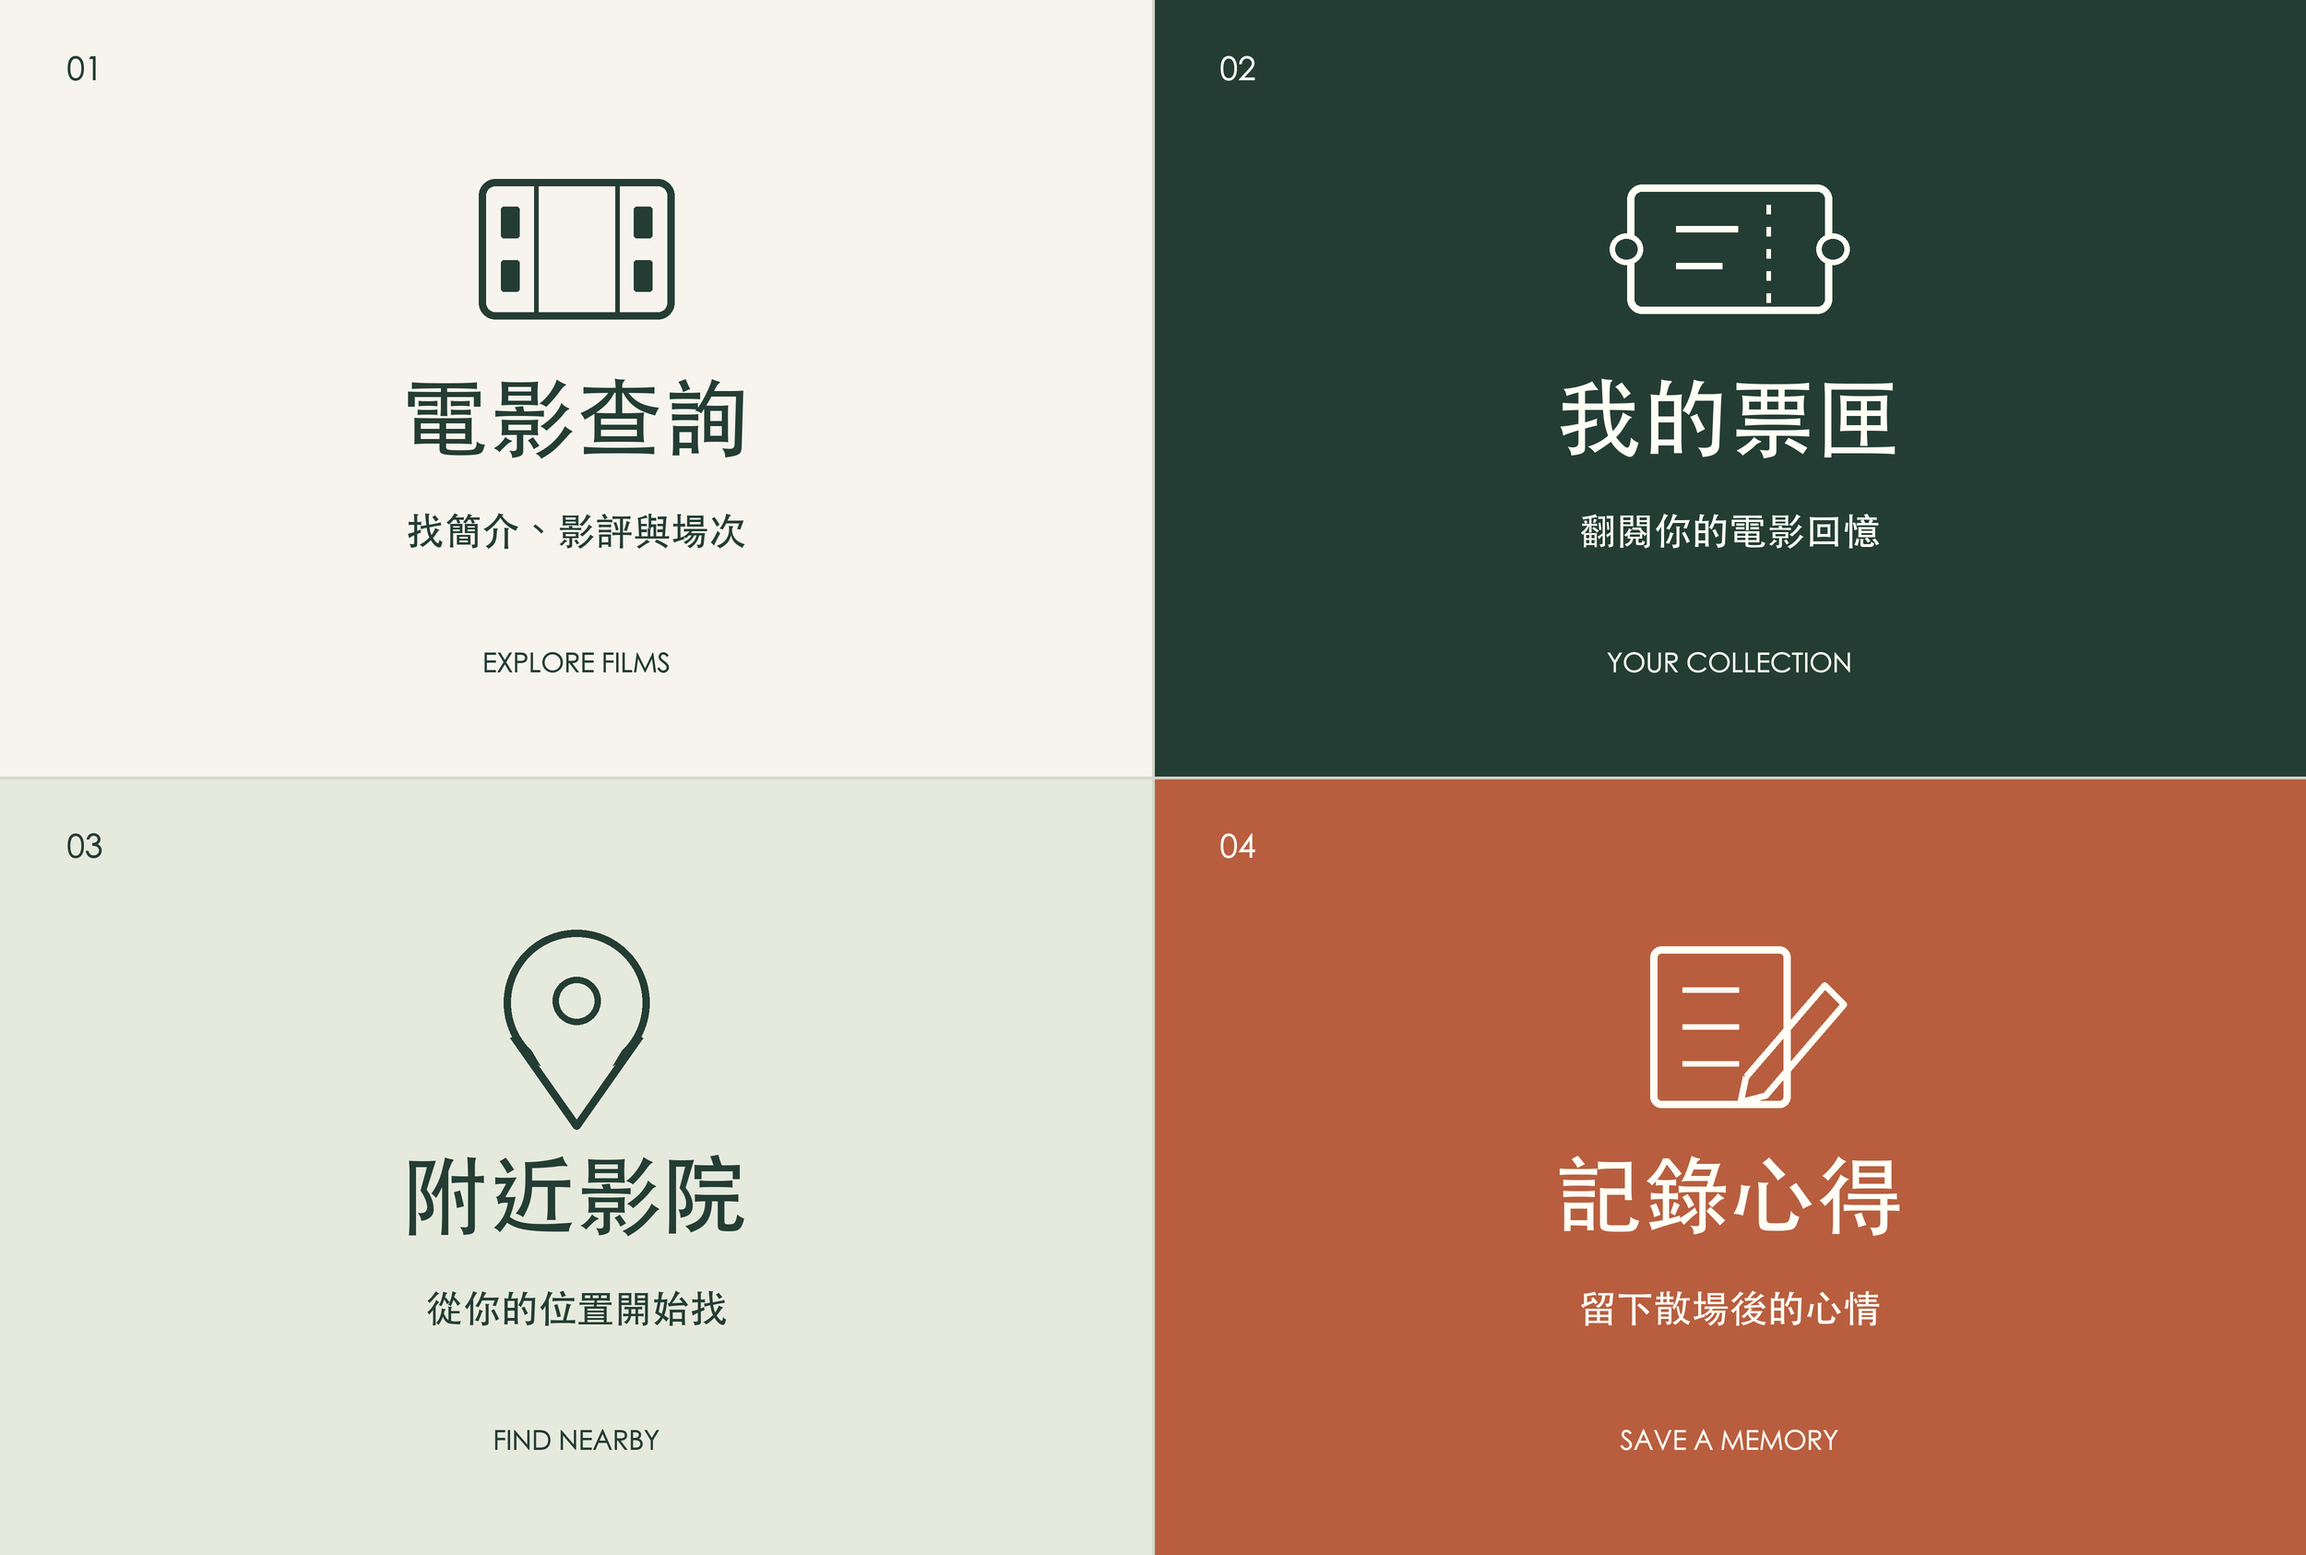
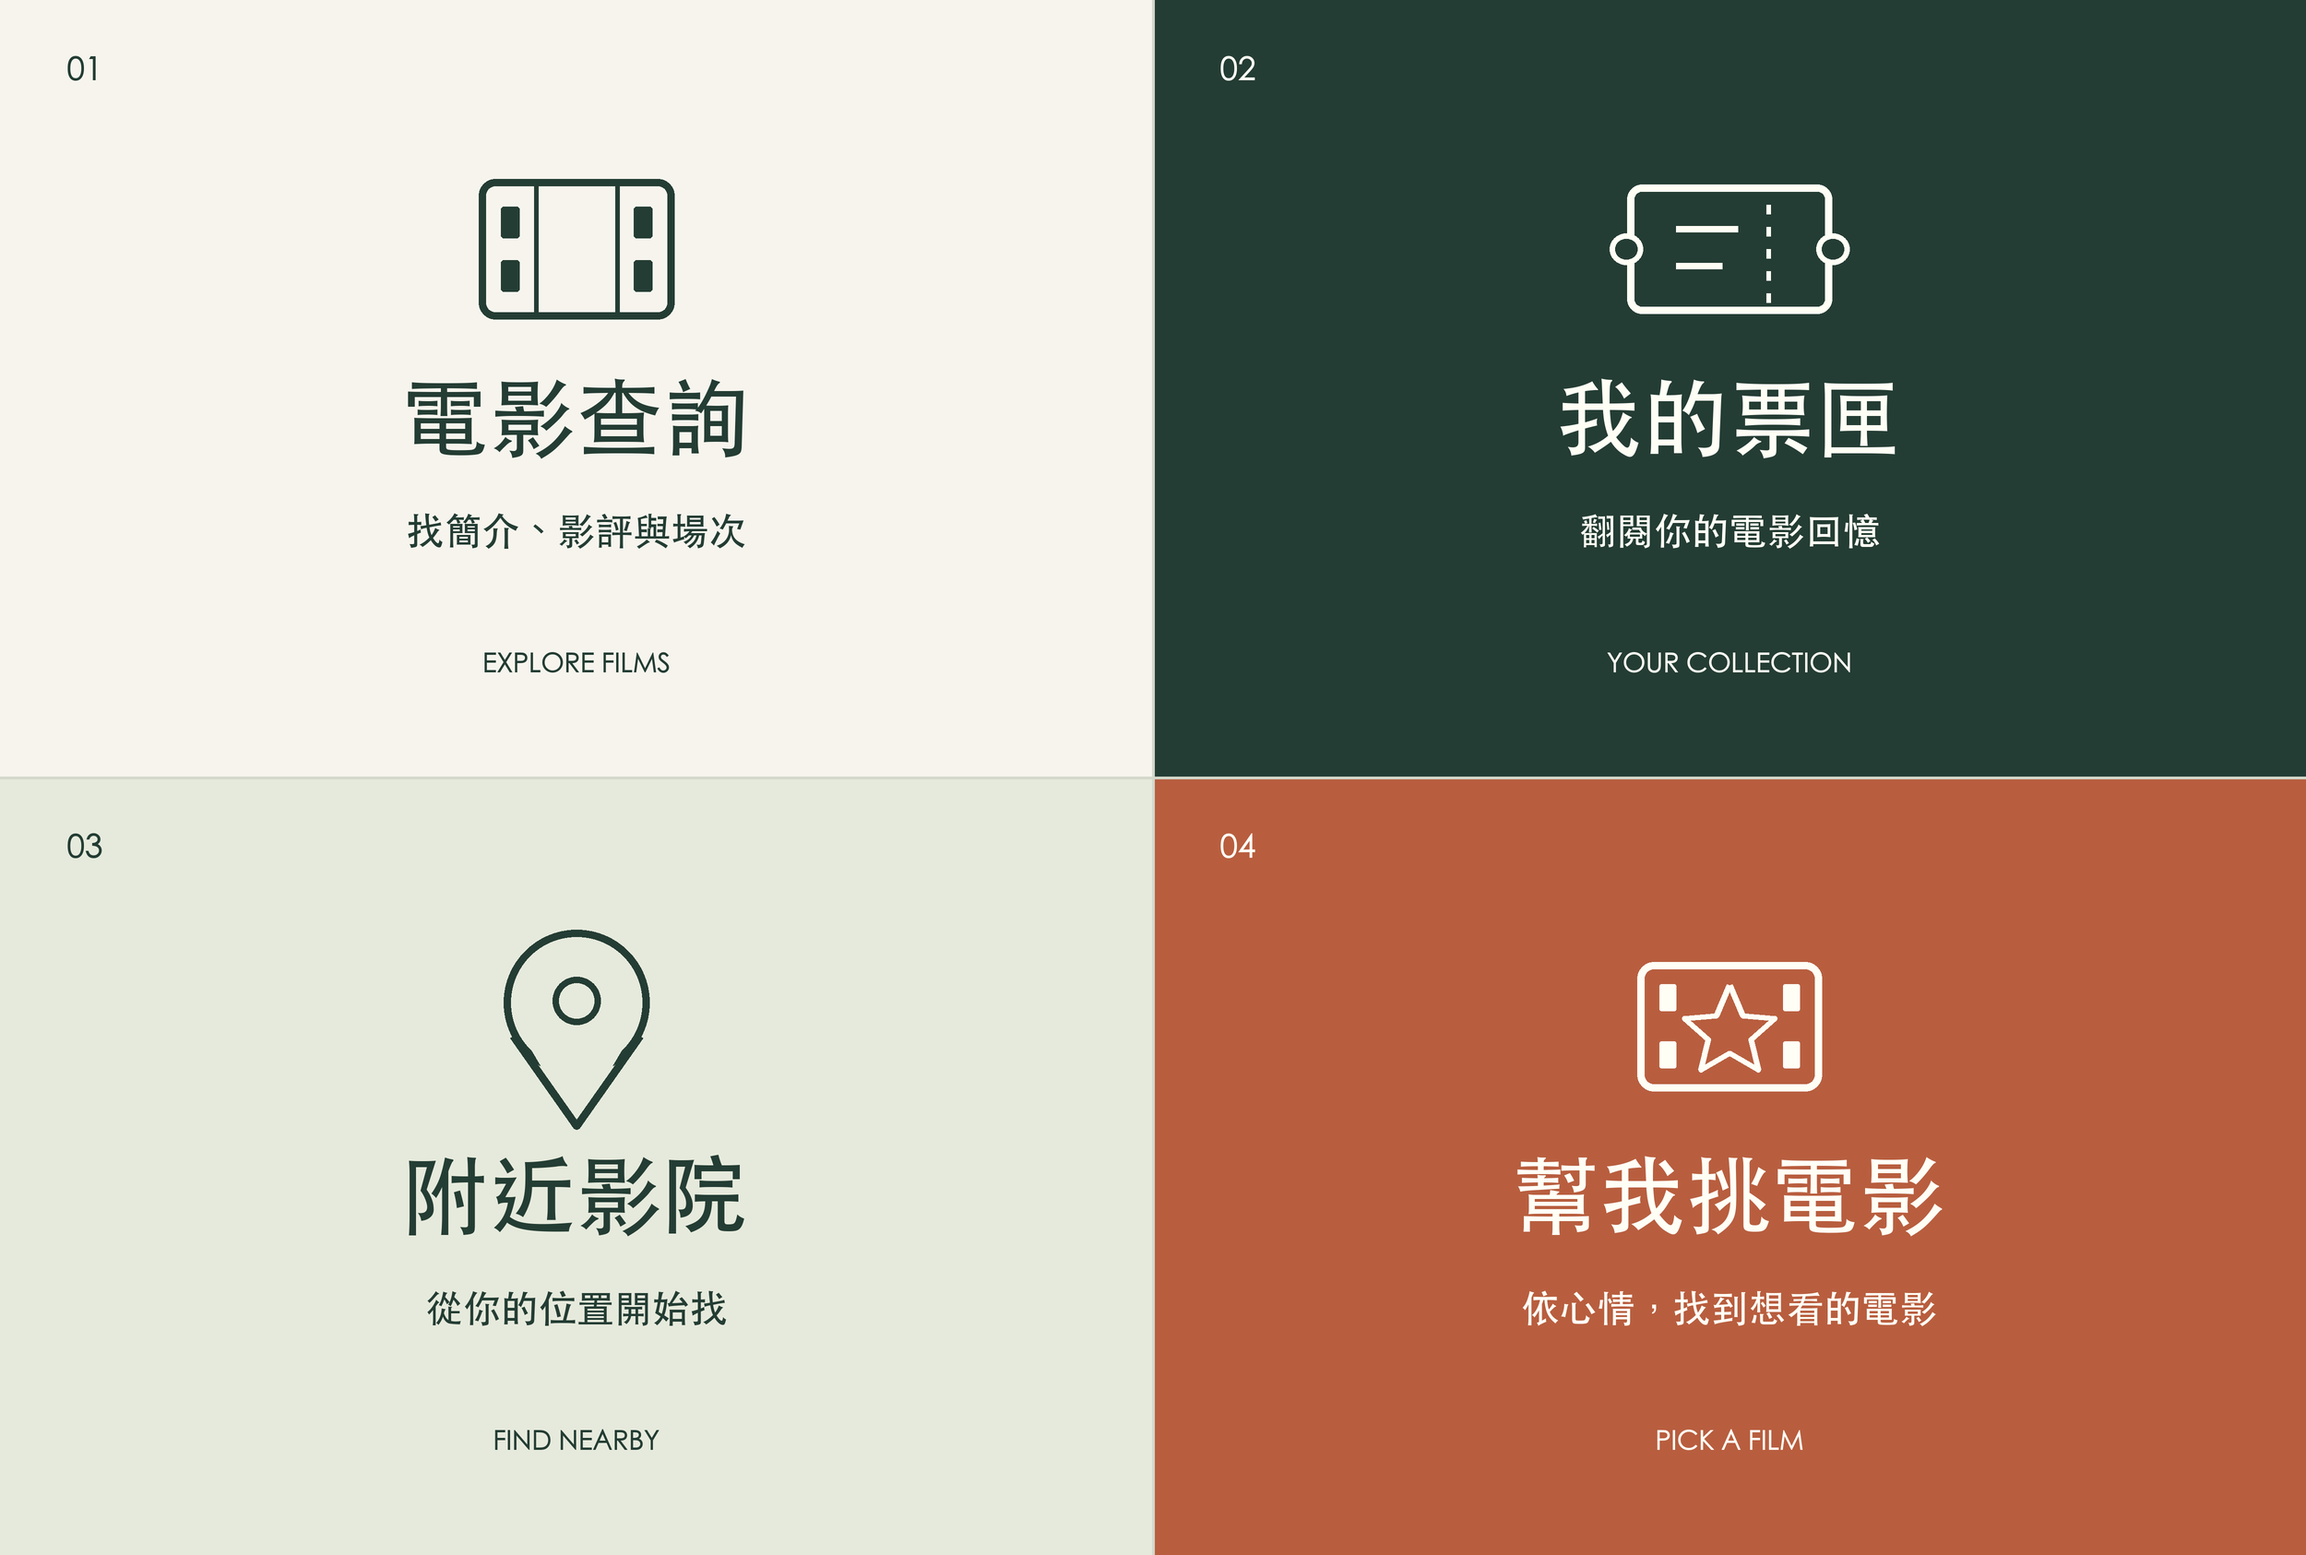
Replace duplicate Rich Menu tile with ADK movie recommendations

Changed region(s): [[0.6552, 0.586, 0.8424, 0.8019], [0.6552, 0.8327, 0.8424, 0.8636], [0.7176, 0.9253, 0.78, 0.9561]]

diff --git a/scripts/render-richmenu.py b/scripts/render-richmenu.py
@@ -18,7 +18,7 @@ def ellipse(xy,fill=None,outline=None,width=7):draw.ellipse(tuple(int(v*scale) f
 def text(x,y,value,size,color):
  font=ImageFont.truetype(font_path,size*scale)
  draw.text((x*scale,y*scale),value,font=font,fill=color,anchor='mm')
-tiles=[(0,0,'#f6f4ed','#243d34','電影查詢','找簡介、影評與場次','EXPLORE FILMS'),(1250,0,'#243d34','#fffef5','我的票匣','翻閱你的電影回憶','YOUR COLLECTION'),(0,843,'#e6eadc','#243d34','附近影院','從你的位置開始找','FIND NEARBY'),(1250,843,'#b85e3f','#fffef5','記錄心得','留下散場後的心情','SAVE A MEMORY')]
+tiles=[(0,0,'#f6f4ed','#243d34','電影查詢','找簡介、影評與場次','EXPLORE FILMS'),(1250,0,'#243d34','#fffef5','我的票匣','翻閱你的電影回憶','YOUR COLLECTION'),(0,843,'#e6eadc','#243d34','附近影院','從你的位置開始找','FIND NEARBY'),(1250,843,'#b85e3f','#fffef5','幫我挑電影','依心情，找到想看的電影','PICK A FILM')]
 for i,(x,y,bg,fg,title,subtitle,eyebrow) in enumerate(tiles):
  box((x,y,x+1250,y+843),fill=bg,radius=0)
  text(x+92,y+76,f'0{i+1}',35,fg)
@@ -41,9 +41,10 @@ for i,(x,y,bg,fg,title,subtitle,eyebrow) in enumerate(tiles):
   line([(cx-69,cy+10),(cx,cy+108),(cx+69,cy+10)],fg,8)
   ellipse((cx-26,cy-54,cx+26,cy-2),outline=fg,width=7)
  else:
-  box((cx-86,cy-87,cx+66,cy+88),outline=fg,width=8,radius=12)
-  for dy in [-40,0,40]:line([(cx-51,cy+dy),(cx+10,cy+dy)],fg,6)
-  line([(cx+18,cy+54),(cx+103,cy-45),(cx+124,cy-24),(cx+39,cy+75),(cx+12,cy+82),(cx+18,cy+54)],fg,7)
+  box((cx-100,cy-70,cx+100,cy+70),outline=fg,width=8,radius=18)
+  for dx in [-76,58]:
+   for dy in [-46,16]:box((cx+dx,cy+dy,cx+dx+18,cy+dy+29),fill=fg,radius=2)
+  line([(cx,cy-45),(cx+14,cy-12),(cx+49,cy-9),(cx+23,cy+14),(cx+31,cy+47),(cx,cy+29),(cx-31,cy+47),(cx-23,cy+14),(cx-49,cy-9),(cx-14,cy-12),(cx,cy-45)],fg,6)
  text(cx,y+452,title,94,fg);text(cx,y+575,subtitle,41,fg)
 line([(1250,0),(1250,1686)],'#d3d8cb',3);line([(0,843),(2500,843)],'#d3d8cb',3)
 image=image.resize((2500,1686),Image.Resampling.LANCZOS)

diff --git a/docs/recommendations.md b/docs/recommendations.md
@@ -1,0 +1,25 @@
+# 幫我挑電影
+
+四格選單現在是「電影查詢／我的票匣／附近影院／幫我挑電影」。電影查詢適合已有片名；幫我挑電影適合還沒決定想看什麼。新增心得仍在 MINI App 票匣內，也保留聊天開啟表單的能力。
+
+點第四格會送出 `menu:recommend`，由 Google ADK 的 `LlmAgent`、`InMemoryRunner` 呼叫 `open_movie_feature(recommend)`，回覆心情／類型的問題與三個快速選項。使用者說出偏好後，ADK 將對話轉成 `recommend_movies` 的結構化參數；後續修改類型時要保留先前的排除條件。沒有偏好時先詢問；明確要求隨便推薦則按人氣選取。
+
+`MovieSource.recommendationCandidates()` 查詢 TMDB `movie/now_playing` 的 `region=TW` 前兩頁，最多讀取 40 筆，去除重複與無效 ID、成人標記，保留電影類型。程式依指定類型、心情對應類型及排除類型篩選，最多回傳三部；同分使用 TMDB 人氣排序。明確要求同時符合多種類型時，使用交集。
+
+推薦片名、網址和理由由工具結果產生，模型不能自行添加電影或保證評價。理由描述類型配對；心情不是電影品質或內容保證，同行者也不等於已確認年齡分級。排除類型時，缺少類型的電影不列入。候選不足只列實際符合的數量；查無結果或連線失敗如實說明，不切換成虛構示範資料。部分頁面失敗會明示候選不完整。
+
+這是 TMDB 上映候選，不等於特定影城今日場次、即時座位或票價。使用者可接著指定城市與分館，沿用既有 ADK 場次工具查詢。推薦不讀取私人票根，也不新增草稿或儲存紀錄。
+
+資料介面依據：[Now Playing](https://developer.themoviedb.org/reference/movie-now-playing-list)、[電影類型](https://developer.themoviedb.org/reference/genre-movie-list)。
+
+驗證：`node --test test/*.test.mjs`；正式環境可執行 `node --env-file=/etc/movie-bot/environment examples/recommendation-adk-smoke.mjs`，使用真實 Gemini 與 TMDB、記憶體資料庫測試入口、喜劇排除恐怖與多輪改選動作片，不發送 LINE 訊息。
+
+更新選單時使用新的 checkpoint，保留前版預設選單：
+
+```sh
+node --env-file=/etc/movie-bot/environment scripts/richmenu.mjs apply --state-file /var/lib/movie-bot/richmenu-install-05-recommend.json
+# 如需恢復前一版
+node --env-file=/etc/movie-bot/environment scripts/richmenu.mjs rollback --state-file /var/lib/movie-bot/richmenu-install-05-recommend.json
+```
+
+`verification-05.md` 記錄的是首次上線的舊版四格選單；本文件描述推薦改版。

diff --git a/README.md b/README.md
@@ -1,21 +1,22 @@
 # 電影夥伴 Bot 05：四格 Rich Menu × Google ADK
 
-讓使用者打開 Zona Movie 聊天室，就能找到查電影、私人票匣、附近影院與記錄心得。
+讓使用者打開 Zona Movie 聊天室，就能找到查電影、私人票匣、附近影院與偏好推薦。
 
 | 電影查詢 | 我的票匣 |
 | --- | --- |
-| 附近影院 | 記錄心得 |
+| 附近影院 | 幫我挑電影 |
 
 ![四格 Rich Menu](assets/richmenu.png)
 
 ## 和 Google ADK 的關係
 
-沿用 Bot 04 的 `MovieCompanion`、`LlmAgent`、`InMemoryRunner` 與電影／場次／地圖工具，新增 **`open_movie_feature` FunctionTool**，提供四種 feature：`movies`、`shelf`、`nearby`、`new_ticket`。
+沿用 Bot 04 的 `MovieCompanion`、`LlmAgent`、`InMemoryRunner` 與電影／場次／地圖工具，新增 **`open_movie_feature` FunctionTool**，選單提供 `movies`、`shelf`、`nearby`、`recommend`；另保留 `new_ticket` 供聊天開啟新增表單。
 
 - 電影查詢：Rich Menu postback 經已驗簽 webhook 交給 ADK，呼叫功能入口工具；接續輸入片名後使用原有電影工具。
 - 附近影院：同樣經 ADK 提供位置分享 quick reply 或地標引導；實際位置事件仍交給 ADK 的 `nearby_cinemas` 工具與 Google Maps。
 - 我的票匣：Rich Menu 直接開啟正式 MINI App；ADK 在對話中也能透過 `open_movie_feature(shelf)` 提供相同入口。
-- 記錄心得：Rich Menu 直接開啟 `?action=new`，登入後自動打開新增票根表單；ADK 也能透過 `open_movie_feature(new_ticket)` 提供相同連結。
+- 幫我挑電影：postback 經 ADK `open_movie_feature(recommend)` 詢問心情／類型，之後由 `recommend_movies` 查 TMDB 並篩選最多三部，附類型配對原因與來源。
+- 記錄心得：在我的票匣裡新增，聊天也保留 `open_movie_feature(new_ticket)` 的 `?action=new` 入口。
 
 URI 按鈕由 LINE 直接開啟網頁，點擊本身不會觸發模型。私人票匣 CRUD 保留一般 API 與 LINE 後端驗證；網址由程式產生，模型不能指定其他人的 actor、偽造登入或自動儲存心得。完整資料的聊天記錄仍使用 `prepare_ticket` 草稿及使用者確認。
 
@@ -85,3 +86,5 @@ python3 scripts/render-richmenu.py --font /path/to/traditional-chinese-font.ttc
 ```
 
 [部署](docs/deployment.md) · [LINE / MINI App 設定](docs/liff-setup.md) · [隱私](docs/privacy.md) · [資料來源](docs/credits.md)
+
+推薦流程、資料限制與驗證方式見 [推薦功能說明](docs/recommendations.md)。

diff --git a/docs/richmenu.md b/docs/richmenu.md
@@ -9,7 +9,7 @@
 | 左上 | 電影查詢 | postback `menu:movies` | ADK `open_movie_feature(movies)`，引導片名／上映候選／影城場次；後續呼叫原電影工具 |
 | 右上 | 我的票匣 | URI | 直接開 Published MINI App；對話中也能由 ADK `open_movie_feature(shelf)` 取得相同網址 |
 | 左下 | 附近影院 | postback `menu:nearby` | ADK `open_movie_feature(nearby)` 提供位置分享按鈕；收到位置後仍由 ADK 呼叫 `nearby_cinemas` |
-| 右下 | 記錄心得 | URI `?action=new` | 登入後開新增票根表單；對話中由 ADK `open_movie_feature(new_ticket)` 提供連結 |
+| 右下 | 幫我挑電影 | postback `menu:recommend` | ADK `open_movie_feature(recommend)` 引導偏好，再呼叫 `recommend_movies` 查資料與篩選 |
 
 查詢／引導使用 `InMemoryRunner` 與 `FunctionTool`，不把 Rich Menu 當作單純的關鍵字固定回覆。入口工具的文案、quick replies 與網址由程式控制；不讓模型憑空產生可點擊的身分驗證連結。
 
